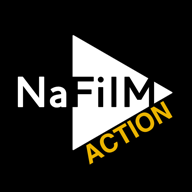
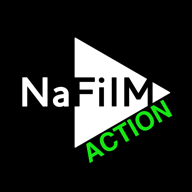
Initial commit — NaFilM Action app

Changed region(s): [[0.0625, 0.1875, 0.9062, 0.875], [0.5, 0.25, 0.6562, 0.3438], [0.4375, 0.2188, 0.5, 0.25]]

diff --git a/src/app/page.tsx b/src/app/page.tsx
@@ -19,21 +19,22 @@ export default function HomePage() {
   return (
     <div className="content-wrap space-y-7">
       <section className="grid gap-5 lg:grid-cols-[1.2fr_0.8fr] lg:items-stretch">
-        <div className="rounded-md bg-ink p-6 text-paper shadow-soft sm:p-8">
-          <div className="mb-4">
+        <div className="relative overflow-hidden rounded-md bg-ink p-6 text-paper shadow-soft sm:p-8" style={{ backgroundImage: "url('/hero-bg.jpg')", backgroundSize: "cover", backgroundPosition: "center" }}>
+          <div className="absolute inset-0 bg-ink/60" />
+          <div className="relative z-10 mb-4">
             <img
               alt="NaFilM Action"
               className="h-auto w-[5.5rem] sm:w-28"
               height={1488}
-              src="/new-logo-action-white.png"
+              src="/logo-action-green.png"
               width={2000}
             />
           </div>
-          <p className="max-w-2xl text-base leading-7 text-paper/70">
+          <p className="relative z-10 max-w-2xl text-base leading-7 text-paper/70">
             Enhance your museum experience by finishing missions, collecting points, exchanging them
             for rewards, and enjoying movie recommendations made for you!
           </p>
-          <div className="mt-7 flex flex-col gap-3 sm:flex-row">
+          <div className="relative z-10 mt-7 flex flex-col gap-3 sm:flex-row">
             <ButtonLink href="/ticket" icon={Ticket} variant="secondary">
               {progress.ticket ? "View Ticket" : "Buy Ticket"}
             </ButtonLink>
@@ -59,7 +60,7 @@ export default function HomePage() {
           <p className="mt-4 text-sm leading-6 text-ink/50">
             {isMissionComplete(progress)
               ? "Mission complete. Your movie picks and the mini-game are unlocked."
-              : `${completedIds.length}/${levels.length} rooms completed. ${loyalty.next}.`}
+              : `${completedIds.length}/${levels.length} rooms completed.`}
           </p>
           <div className="mt-5">
             <ButtonLink href={isMissionComplete(progress) ? "/movies" : "/mission"} icon={ArrowRight}>
@@ -119,7 +120,7 @@ export default function HomePage() {
           title="Ticket"
         />
         <JourneyCard
-          body="Six physical-first missions move you through the museum one short interaction at a time."
+          body="Twelve missions move you through the museum one short interaction at a time."
           href="/mission"
           icon={Map}
           title="Mission"

diff --git a/src/lib/progress.ts b/src/lib/progress.ts
@@ -211,69 +211,37 @@ export function getReward(id: string) {
   return rewards.find((reward) => reward.id === id);
 }
 
+const RANK_THRESHOLDS: { level: string; min: number; max: number }[] = [
+  { level: "Guest",       min: 0,    max: 99 },
+  { level: "Visitor",     min: 100,  max: 299 },
+  { level: "Trainee",     min: 300,  max: 599 },
+  { level: "Crew Member", min: 600,  max: 999 },
+  { level: "Specialist",  min: 1000, max: 1299 },
+  { level: "Auteur",      min: 1300, max: 1569 },
+  { level: "Cinephile",   min: 1570, max: Infinity },
+];
+
 export function getLoyaltyStatus(progress: UserProgress) {
-  const completedCount = progress.completedLevels.length;
-  const badgeCount = progress.badges.length;
+  const pts = progress.points;
+  const current = RANK_THRESHOLDS.find((r) => pts >= r.min && pts <= r.max) ?? RANK_THRESHOLDS[0];
+  const nextTier = RANK_THRESHOLDS[RANK_THRESHOLDS.indexOf(current) + 1];
 
-  if (isMissionComplete(progress) && progress.savedMovies.length > 0) {
+  if (!nextTier) {
     return {
-      level: "Cinephile",
-      current: progress.savedMovies.length,
-      target: 3,
-      next: "Save more films for later",
-    };
-  }
-
-  if (isMissionComplete(progress)) {
-    return {
-      level: "Auteur",
-      current: 1,
-      target: 1,
-      next: "Save a recommended movie",
-    };
-  }
-
-  if (badgeCount >= 5) {
-    return {
-      level: "Specialist",
-      current: completedCount,
-      target: levels.length,
-      next: "Complete the full mission",
-    };
-  }
-
-  if (completedCount >= 3) {
-    return {
-      level: "Crew Member",
-      current: badgeCount,
-      target: 5,
-      next: "Earn 5 badges",
-    };
-  }
-
-  if (progress.missionStarted) {
-    return {
-      level: "Trainee",
-      current: completedCount,
-      target: 3,
-      next: "Complete 3 levels",
-    };
-  }
-
-  if (progress.ticket) {
-    return {
-      level: "Visitor",
-      current: 0,
-      target: 1,
-      next: "Start the mission",
+      level: current.level,
+      current: pts,
+      target: current.min,
+      creditsToNext: 0,
+      next: "Top rank reached",
     };
   }
 
   return {
-    level: "Guest",
-    current: 0,
-    target: 1,
-    next: "Create a ticket",
+    level: current.level,
+    current: pts - current.min,
+    target: nextTier.min - current.min,
+    creditsToNext: nextTier.min - pts,
+    next: nextTier.level,
   };
 }
 

diff --git a/src/app/rewards/page.tsx b/src/app/rewards/page.tsx
@@ -51,7 +51,13 @@ export default function RewardsPage() {
           </div>
         </div>
         <div className="mt-5 h-3 overflow-hidden rounded-full bg-paper/20">
-          <div className="h-full rounded-full bg-gold" style={{ width: `${loyaltyPercent}%` }} />
+          <div className="h-full rounded-full bg-gold transition-all duration-500" style={{ width: `${loyaltyPercent}%` }} />
+        </div>
+        <div className="mt-2 flex items-center justify-between text-xs font-semibold text-paper/50">
+          {loyalty.creditsToNext > 0 && (
+            <span>{loyalty.creditsToNext} credits more to {loyalty.next}</span>
+          )}
+          <span>{loyalty.current} / {loyalty.target}</span>
         </div>
       </section>
 

diff --git a/src/components/ActionButton.tsx b/src/components/ActionButton.tsx
@@ -12,7 +12,7 @@ const variants = {
   primary: "bg-ink text-paper hover:bg-ink/90 disabled:bg-ink/30",
   secondary: "bg-paper text-ink ring-1 ring-ink/10 hover:bg-frame disabled:text-ink/40",
   quiet: "bg-transparent text-ink hover:bg-ink/5 disabled:text-ink/40",
-  danger: "bg-ember text-paper hover:bg-ember/90 disabled:bg-ember/40",
+  danger: "bg-ember text-black hover:bg-ember/90 disabled:bg-ember/40",
 };
 
 export function ActionButton({

diff --git a/src/components/ButtonLink.tsx b/src/components/ButtonLink.tsx
@@ -12,7 +12,7 @@ const variants = {
   primary: "bg-ink text-paper hover:bg-ink/90",
   secondary: "bg-paper text-ink ring-1 ring-ink/10 hover:bg-frame",
   quiet: "bg-transparent text-ink hover:bg-ink/5",
-  gold: "bg-[#ecb500] text-white hover:bg-[#d4a300]",
+  gold: "bg-[#17e615] text-black hover:bg-[#13c912]",
 };
 
 export function ButtonLink({ href, children, icon: Icon, variant = "primary" }: ButtonLinkProps) {

diff --git a/src/app/globals.css b/src/app/globals.css
@@ -20,7 +20,7 @@ body {
   min-height: 100%;
   margin: 0;
   background:
-    linear-gradient(135deg, rgba(206, 90, 53, 0.12), transparent 32rem),
+    linear-gradient(135deg, rgba(23, 230, 21, 0.12), transparent 32rem),
     linear-gradient(315deg, rgba(47, 111, 115, 0.14), transparent 34rem),
     #fbf7ef;
   color: #12100f;

diff --git a/tailwind.config.ts b/tailwind.config.ts
@@ -13,8 +13,8 @@ const config: Config = {
         paper: "#fbf7ef",
         frame: "#f2eadc",
         reel: "#25211f",
-        ember: "#ce5a35",
-        gold: "#d69e2e",
+        ember: "#17e615",
+        gold: "#17e615",
         sage: "#5f7560",
         teal: "#2f6f73",
         plum: "#6e476d",
